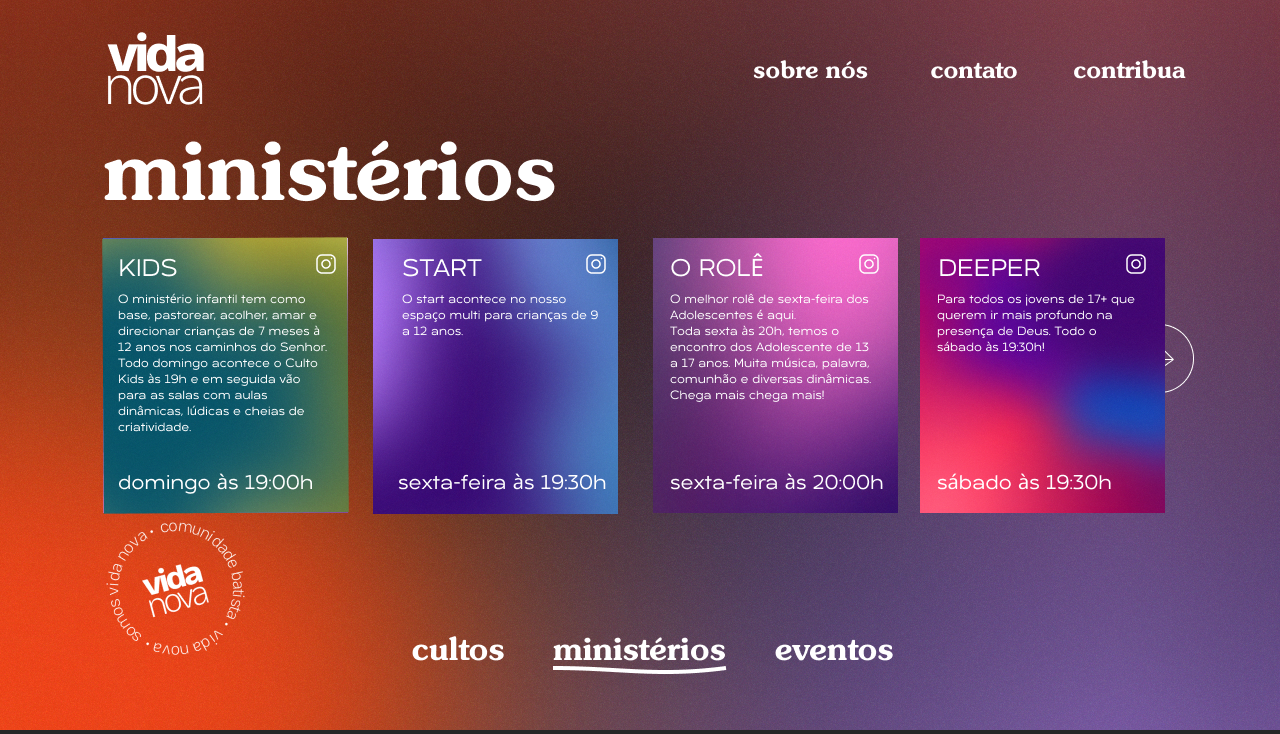
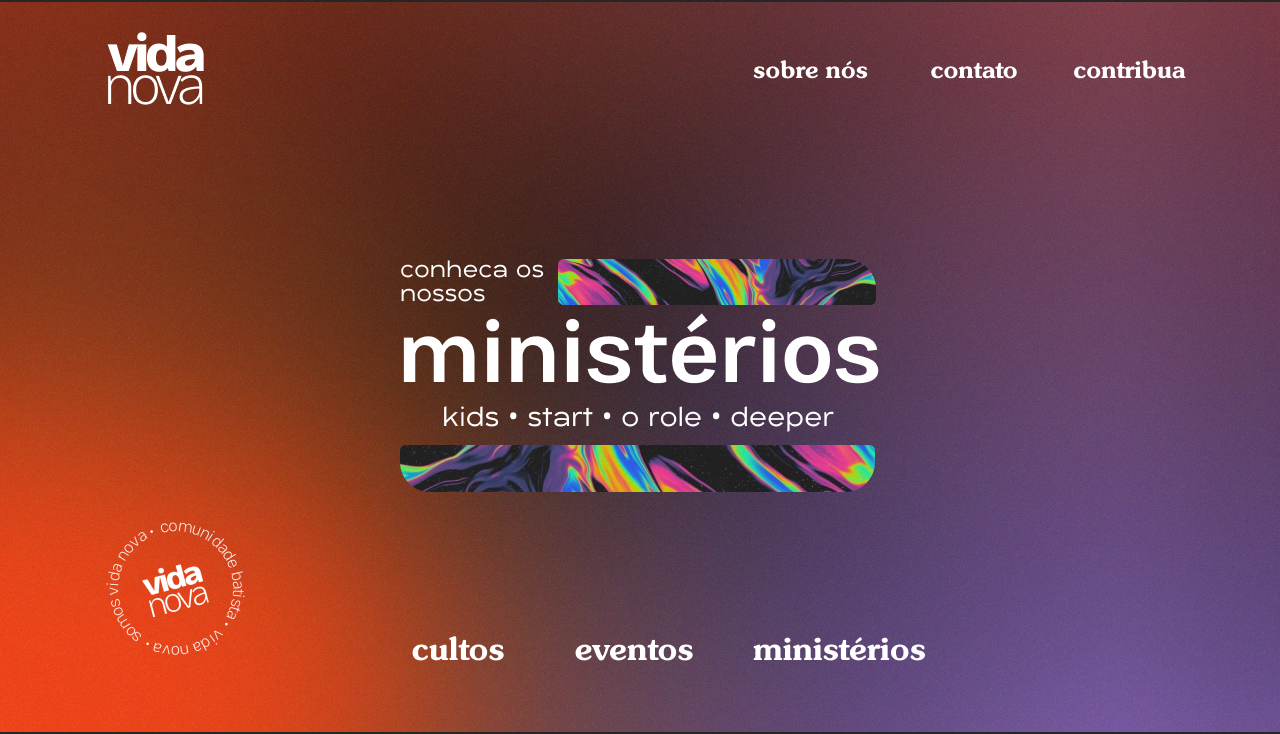
news minister

diff --git a/index.html b/index.html
@@ -45,15 +45,15 @@
             <div class="panel_card">
                 <div class="col">
                     <div class="row" style="align-items: center; ">
-                        <div class="bar1" style="width: 20px; height: 80px; border: 3px solid #fff; border-radius: 100px;"></div>
+                        <div class="bar1" style="width: 100px; height: 80px; border: 3px solid #fff; border-radius: 100px;"></div>
                         <h3 class="cb">comunidade <br/>batista missionaria</h3>
                     </div>
-                    <span class="welcome">bem-vindo</span>
+                    <span class="welcome">bem-vindo&ensp;</span>
                     <div class="row">
                     <h1 class="title">Vida</h1>
                     <div class="row" style="align-items: center; justify-content: center; margin-left: 30px;">
                         <span class="nova">n</span>
-                        <div class="bar2" style="width: 10px; height: 80px; margin-top: 54px; border: 6px solid #fff; border-radius: 100px;"></div>
+                        <div class="bar2" style="width: 60px; height: 80px; margin-top: 54px; border: 6px solid #fff; border-radius: 100px;"></div>
                         <span class="nova">va</span>
                     </div>
                 </div>
@@ -63,18 +63,24 @@
             <div class="panel_card" >
                 <div class="col" >
                     <div class="row" style="align-items: center; margin-top: -120px; justify-content: space-between; ">
-                        <h3 class="tl">cultos</h3>
-                        <span class="lc">165, Rua Rudolfo Hufenuessler - Jaragua do Sul, SC </span>
+                      <div class="row">
+                        <h3 class="tl">cult</h3>
+                        <div class="bar3" style="width: 60px; height: 60px; margin-top: 28px; border: 6px solid #fff; border-radius: 100px;"></div>
+                        <h3 class="tl">s</h3>
+                      </div>
+                        <div style="backdrop-filter: blur(100px); background-color: #f0f8ff49; padding: 16px 20px; border-radius: 12px;">
+                            <span class="lc">165, Rua Rudolfo Hufenuessler<br/>Jaragua do Sul, SC </span>
+                        </div>
                     </div>
                     <div class="row" style="margin-top: 80px;">
-                        <div class="col card" style="background-image: url(./imgs/cult_1.png); background-size: cover;"> 
+                        <div class="col card date1" style="background-image: url(./imgs/cult_1.png); background-size: cover; "> 
                             <span class="cdt">quarta-feira</span>
                             <div class="col">
                                 <span class="cdtime">20:00h</span>
                                 <span class="cdtime">22:00h</span>
                             </div>
                         </div>
-                        <div class="col card" style="background-image: url(./imgs/cult_2.png); background-size: cover; margin-left: 60px;"> 
+                        <div class="col card date2" style="background-image: url(./imgs/cult_2.png); background-size: cover; margin-left: 60px;"> 
                             <span class="cdt">domingo</span>
                             <div class="col">
                                 <span class="cdtime">19:00h</span>
@@ -86,13 +92,15 @@
                     </div>
             </div>
         </section>
-        <section class="panel" id="ministerios" style="background-size: cover; z-index: 99">
-    <div id="paper" style="background-image: url('./imgs/bg_main.png');"></div>
+      
+        <section class="panel" id="eventos" style="background-size: cover; z-index: 99">
             <div class="panel_card" >
                 <div class="col" >
-                    <div class="row" style="align-items: center; margin-top: -120px; justify-content: space-between; ">
-                        <h3 class="tl">ministerios</h3>
-                        <span class="lc">165, Rua Rudolfo Hufenuessler - Jaragua do Sul, SC </span>
+                    <div class="row" style="align-items: center; margin-top: -120px; ">
+                        <h3 class="tl">event</h3>
+                        <div class="bar5" style="width: 60px; height: 60px;   border-radius: 100px; background-image: url(./imgs/o_1.png);"></div>
+                        <h3 class="tl">s</h3>
+                        
                     </div>
                     <div class="row" style="margin-top: 80px;">
 
@@ -101,7 +109,7 @@
                             <span class="cdp">O ministério infantil tem como base, pastorear, acolher, amar e direcionar crianças de 7 meses à 12 anos nos caminhos do Senhor. 
                             </span>
                             <div class="col">
-                                <span class="cdtime">domingo 20:00h</span>
+                                <span class="cdtime">domingo <br>20:00h</span>
                             </div>
                         </div>
 
@@ -114,7 +122,7 @@
                         </div>
                         <div class="col card role" style="background-image: url(./imgs/role.png); background-size: cover; margin-left: 60px;  height: 300px;"> 
                             <span class="cdt">O ROLE</span>
-                            <span class="cdp">O melhor rolê de sexta-feira dos Adolescentes é aqui.Toda sexta às 20h, temos o encontro dos Adolescente de 13 a 17 anos. Muita música, palavra, comunhão e diversas dinâmicas. Chega mais chega mais!</span>
+                            <span class="cdp">O melhor role de sexta-feira dos Adolescentes e aqui. Temos o encontro dos Adolescente de 13 a 17 anos. Muita musica, palavra, comunhao e diversas dinamicas.</span>
                             <div class="col">
                                 <span class="cdtime">sexta-feira 19:30h</span>
                             </div>
@@ -123,13 +131,35 @@
                             <span class="cdt">DEEPER</span>
                             <span class="cdp">Para todos os jovens de 17+ que querem ir mais profundo na presença de Deus. Todo o sábado às 19:30h!</span>
                             <div class="col">
-                                <span class="cdtime">sexta-feira 19:30h</span>
+                                <span class="cdtime">sabado <br>19:30h</span>
                             </div>
                         </div>
                     </div>
             </div>
         </section>
+      
+        <section class="panel" id="ministerios" >
+            <div class="panel_card" >
+                
+                <div class="col" style="background-size: cover; width: 96%; height: 99%; margin: 20px; margin-left: 40px; margin-right: 60px; align-items: center; justify-content: center; border-radius: 30px; background-image: url(./imgs/bg_min.png)" >
+                    <div class="col" >
+                        <div class="row" style="align-items: center;">
+                            <span class="min_span">conheca <br/>os nossos</span>
+                            <img src="./imgs/o_1.png" class="bar6" alt="Vida Nova - Comunidade Batista" style="width: 66%; height: 100px; object-fit: cover; border-radius: 12px 60px 12px 12px;"/>
+                        </div>
+                        <h3 class="min_tt">ministérios</h3>
+                        <span class="min_span2">kids • start • o role • deeper</span>
+                        <img src="./imgs/o_1.png" class="bar7" alt="Vida Nova - Comunidade Batista" style="width: 92%; align-self: center; height: 150px; object-fit: cover; border-radius: 12px 12px 60px 60px;"/>
+                    </div>
+                </div>
+            </div>
+        </section>
     </div>
+
+    <section style="background: #171717; height: 300px; width: 100%; margin-bottom: -20px; z-index: 99; border-radius: 50px 50px 0px 0px; margin-top: 40px;"></section>
+    <section style="background: #171717; width: 100vw; height: 100vh;">
+        <h3>Kids</h3>
+    </section>
 </div>
     <script src="https://cdnjs.cloudflare.com/ajax/libs/gsap/3.12.5/gsap.min.js"></script>
     <script src="https://cdnjs.cloudflare.com/ajax/libs/gsap/3.12.5/ScrollTrigger.min.js"></script>

diff --git a/styles/main.css b/styles/main.css
@@ -66,6 +66,7 @@ html {
 
 body{
   padding: 0;
+  overflow-x: hidden;
   margin: 0;
 }
 
@@ -86,6 +87,8 @@ body{
   flex-wrap:nowrap;
   flex-direction: row;
   position: relative;
+  padding-right: 30px;
+  margin-right: 30px;
 }
 .panel{
   justify-content: center;
@@ -194,6 +197,7 @@ body{
 
 #loading{
   background-color: #121212;
+  z-index: 9999;
 }
 
 
@@ -207,14 +211,37 @@ body{
   margin-top: 0px;
 
 }
+
 .welcome {
   font-size: 11em;
-  color: #fff;
+  color: transparent;
   font-family: "Bruta Bold";
   margin-bottom: 0px;
   letter-spacing: -20px;
   margin-top: 0px;
+  background-image: url('https://mir-s3-cdn-cf.behance.net/project_modules/1400_webp/4efb4b189477115.65abf475b1b2f.jpg');
+  background-size: cover;
+  background-position: center;
+  background-repeat: no-repeat;
+  background-clip: text;
+  -webkit-text-fill-color: transparent;
+  -webkit-background-clip: text;
+  -webkit-font-smoothing: antialiased;
+  animation: moveBakground 6s linear infinite alternate;
 }
+
+@keyframes moveBakground {
+  0% {
+    background-position: top;
+  }
+  50% {
+    background-position: center;
+  }
+  100% {
+    background-position: bottom;
+  }
+}
+
 
 .title {
   font-size: 11em;
@@ -255,7 +282,7 @@ body{
 
 .tl {
   font-size: 8em;
-  font-family: "Sunset Regular";
+  font-family: "Arkibal Light";
   margin-bottom: 0px;
   margin-top: 0px;
   color: #fff;
@@ -376,4 +403,28 @@ body{
   font-family: "Sunset Light";
 }
 
-
+.min_tt{
+    font-size: 11em;
+    color: #fff;
+    font-family: "Bruta Bold";
+    margin-bottom: 0px;
+    letter-spacing: -20px;
+    margin-top: -20px;
+}
+.min_span{
+    font-size: 3em;
+    color: #fff;
+    font-family: "Arkibal Regular";
+    margin-bottom: 0px;
+    letter-spacing: -2px;
+    margin-right: 50px;
+    margin-top: 0px;
+}
+.min_span2{
+    font-size: 3em;
+    color: #fff;
+    font-family: "Arkibal Light";
+    margin-bottom: 20px;
+    text-align: center;
+    margin-top: -20px;
+}

diff --git a/scrips/main.js b/scrips/main.js
@@ -24,34 +24,36 @@ gsap.to(".ld1", { width: 500, duration: 2, delay: 2, onComplete: () => {
 }});
 
 
-gsap.to(".bar1", 
-  {
-    width: '500px',
-    duration: 1,
-    ease: "power1.inOut",
-    scrollTrigger: {
-      trigger: "#home",
-      containerAnimation: scrollTween,
-      start: "top center",
-      end: "bottom center",
-      scrub: 1,
-    }
-  }
-)
 
-gsap.to(".bar2", 
-  {
-    width: 200,
-    ease: "power1.inOut",
-    scrollTrigger: {
-      trigger: "#home",
-      containerAnimation: scrollTween,
-      start: "top center",
-      end: "bottom center",
-      scrub: 1,
+
+
+
+function animeOl(el, width, id){
+  gsap.to(el, 
+    {
+      width: width,
+      ease: "power1.inOut",
+      scrollTrigger: {
+        trigger: id,
+        containerAnimation: scrollTween,
+        start: "top center",
+        end: "bottom center",
+        scrub: 1,
+      }
     }
-  }
-)
+  )
+
+}
+
+animeOl(".bar1", 500, "#home");
+animeOl(".bar2", 200, "#home");
+animeOl(".bar3", 400, "#cultos");
+animeOl(".bar4", 400, "#ministerios");
+animeOl(".bar5", 400, "#eventos");
+animeOl(".bar6", 100, "#ministerios");
+animeOl(".bar7", 300, "#ministerios");
+
+
 
 
 document.querySelector('.kids').addEventListener('mouseover', () => {
@@ -100,7 +102,8 @@ window.addEventListener('mousemove', (e) => {
       x: x + 1,
       y: y + 1,
       duration: 0.7,
-      transform: `scale(${isTargetLinkOrBtn ? 1.6 : 1})`,
+      transform: `scale(${isTargetLinkOrBtn ? 2 : 1})`,
+      opacity: isTargetLinkOrBtn ? 0.7 : 1,
     });
 });
 
